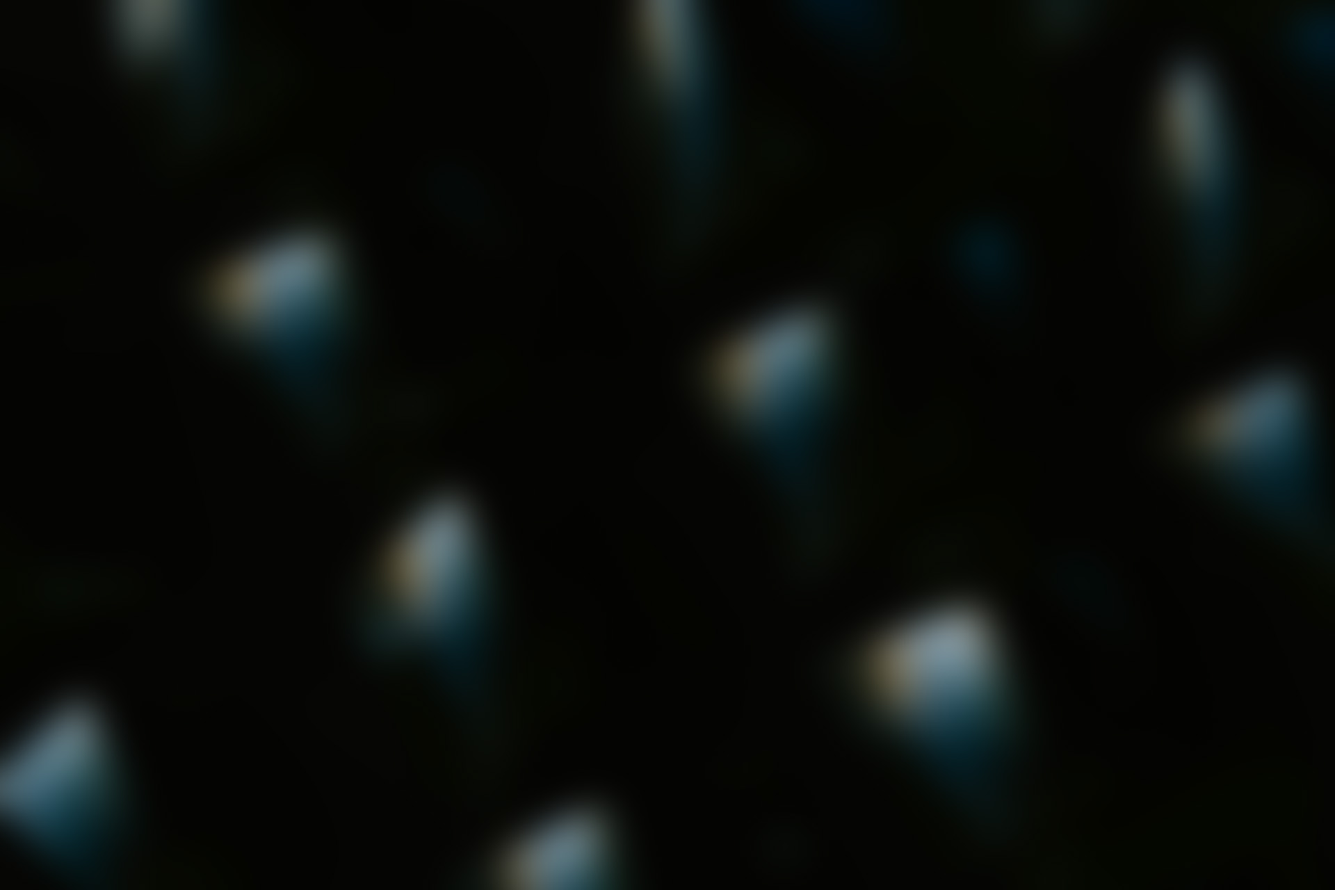
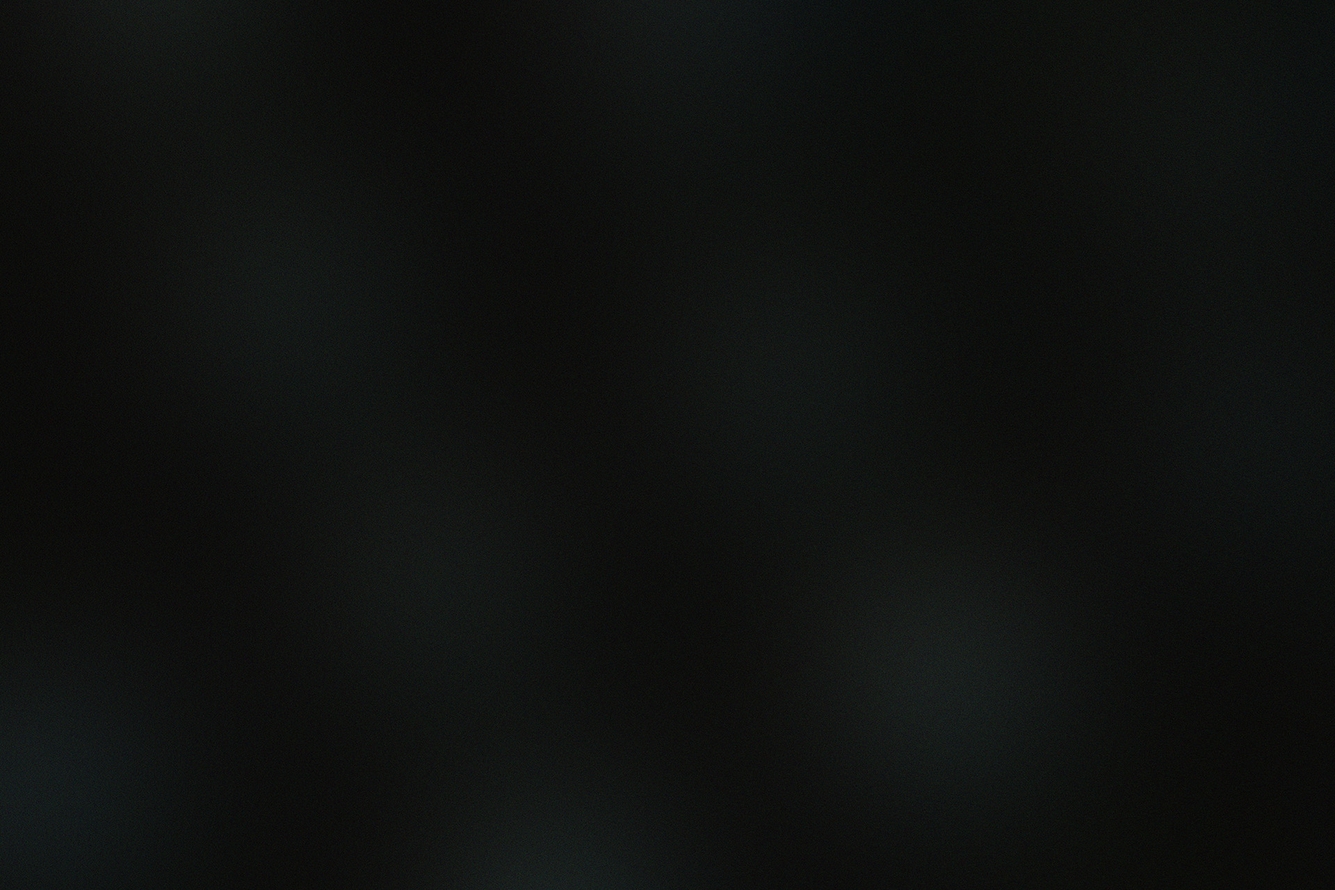
Improve presentation styling

diff --git a/styles/index.css b/styles/index.css
@@ -12,6 +12,7 @@ body {
 header {
   display: flex;
   align-items: center;
+  justify-content: center;
 }
 
 header img {
@@ -35,16 +36,7 @@ header img {
 }
 
 .main-titles {
-  padding: 18rem;
-  padding-left: 20rem;
-  padding-top: 14rem;
-  margin-bottom: 18rem;
-}
-
-.main-titles {
-  max-height: 4rem;
-  max-width: 38rem;
-  /* typewritter effect width */
+  margin: 200px 30px
 }
 
 .main-titles>h1 {
@@ -78,11 +70,11 @@ header img {
   }
 
   35% {
-    width: 100%;
+    width: 70%
   }
 
   65% {
-    width: 100%;
+    width: 70%;
   }
 
   to {
@@ -112,15 +104,31 @@ header img {
 
 .presentation {
   display: flex;
-  font-weight: bold;
+  flex-direction: column;
 }
 
 .presentation article {
   margin: 2rem;
+  background-color: rgba(23, 15, 0, 0.5);
+  backdrop-filter: blur(4px);
   border: solid 4px #ffcc00;
-  border-radius: 1rem;
-  padding: 0.8rem;
-  width: 100%;
+  border-radius: 8px;
+  box-shadow: 0 0 20px rgba(255, 204, 0, .10);
+}
+
+.presentation article > h2 {
+  margin: 0;
+  padding: 10px;
+  font-weight: 600;
+  border-top-left-radius: 4px;
+  border-top-right-radius: 4px;
+  border-bottom: 3px solid rgb(255, 123, 90);
+  background-color: rgba(207, 41, 0, .5);
+  text-wrap: nowrap;
+}
+
+.presentation article > p {
+  padding: 5px 20px;
 }
 
 /* News */

diff --git a/styles/global.css b/styles/global.css
@@ -11,9 +11,10 @@ main {
 }
 
 body {
-  background-image: url("../assets/imgs/bodyWallpaper.jpg");
+  background-image: url("../assets/imgs/bodyWallpaper2.jpg");
+  background-repeat: no-repeat;
   background-size: cover;
-  background-color: #262b37;
+  background-color: #0a0d09;
   height: 90vh;
   width: 100%;
 }
